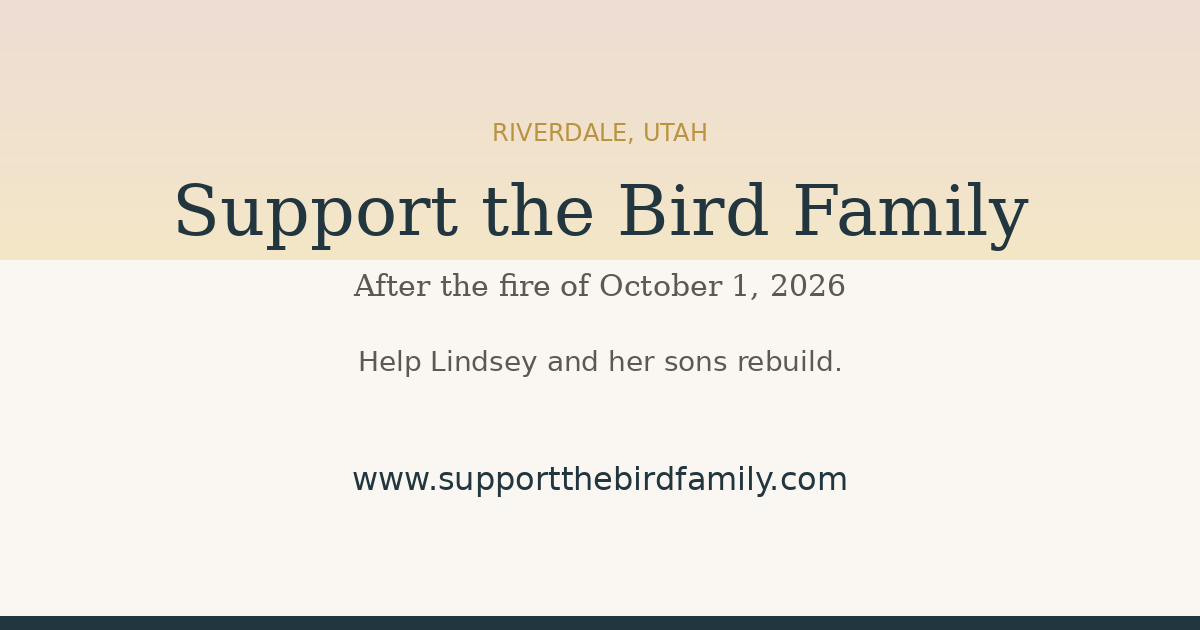
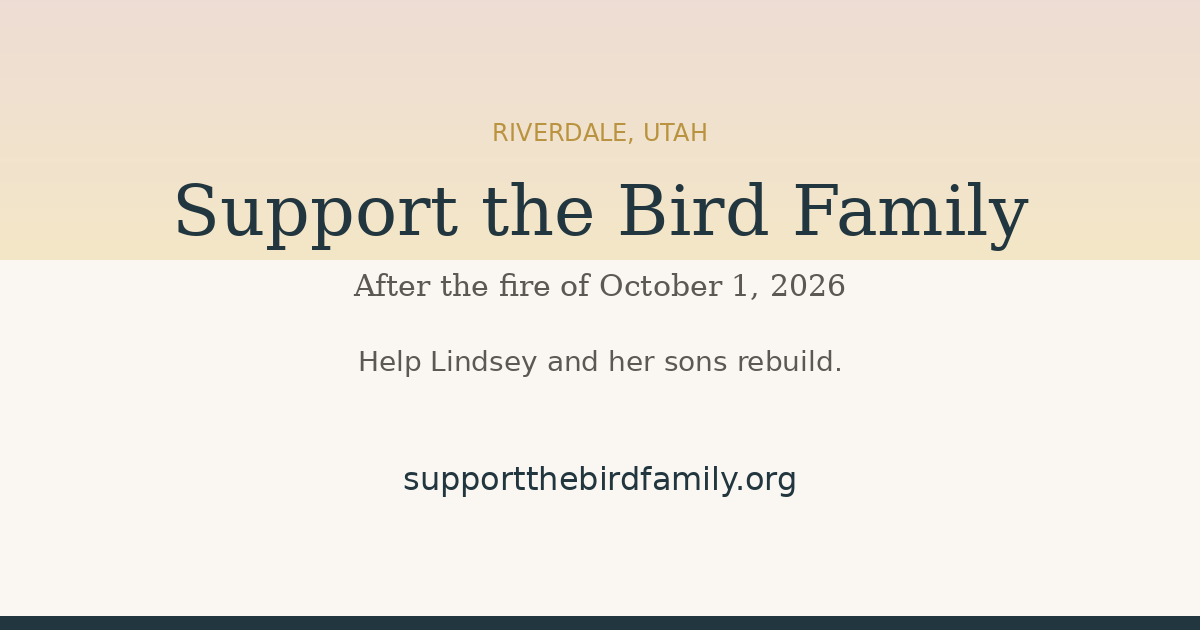
Point the Bird family site and QR codes at supportthebirdfamily.org
Replace www.supportthebirdfamily.com with https://supportthebirdfamily.org/
in the site config, share section, social tags, flyer, README and the
contact email, and regenerate the QR codes and preview image.

Claude-Session: https://claude.ai/code/session_01JmBrSGULe5qxSk5F8rzYqL

Changed region(s): [[0.2775, 0.7238, 0.7092, 0.7841]]

diff --git a/bird-family/index.html b/bird-family/index.html
@@ -11,8 +11,8 @@
   <meta property="og:type" content="website">
   <meta property="og:title" content="Support the Bird Family">
   <meta property="og:description" content="The Bird family of Riverdale lost their home, Nathan, and four of their children in a fire. Help Lindsey and her sons rebuild.">
-  <meta property="og:url" content="https://www.supportthebirdfamily.com/">
-  <meta property="og:image" content="https://www.supportthebirdfamily.com/assets/og-image.png">
+  <meta property="og:url" content="https://supportthebirdfamily.org/">
+  <meta property="og:image" content="https://supportthebirdfamily.org/assets/og-image.png">
   <meta name="twitter:card" content="summary_large_image">
 
   <link rel="icon" href="assets/favicon.svg" type="image/svg+xml">
@@ -188,9 +188,9 @@
           send the link to someone who would want to help.
         </p>
         <div class="share-row">
-          <img class="site-qr" src="assets/site-qr.png" alt="QR code linking to supportthebirdfamily.com" width="200" height="200" loading="lazy">
+          <img class="site-qr" src="assets/site-qr.png" alt="QR code linking to supportthebirdfamily.org" width="200" height="200" loading="lazy">
           <div class="share-actions">
-            <code class="share-url" id="share-url">www.supportthebirdfamily.com</code>
+            <code class="share-url" id="share-url">supportthebirdfamily.org</code>
             <div class="share-buttons">
               <button class="btn btn-secondary" type="button" id="copy-link-btn" data-track="share_copy">Copy link</button>
               <button class="btn btn-secondary" type="button" id="native-share-btn" data-track="share_native" hidden>Share&hellip;</button>
@@ -208,7 +208,7 @@
       <p>Made with love by friends of the Bird family.</p>
       <!-- EDIT: Put a contact email here if you want people to be able to reach you. -->
       <p class="fine-print">
-        Questions or corrections? Email <a href="mailto:hello@supportthebirdfamily.com">hello@supportthebirdfamily.com</a>.
+        Questions or corrections? Email <a href="mailto:hello@supportthebirdfamily.org">hello@supportthebirdfamily.org</a>.
         This site uses basic, anonymous visit statistics to understand how people find it; no personal information is collected.
       </p>
     </div>

diff --git a/bird-family/config.js b/bird-family/config.js
@@ -8,18 +8,18 @@
 window.SITE_CONFIG = {
   // The address people will reach the site at once the domain is live.
   // Used for the "Share" section and the copy-link button.
-  siteUrl: 'https://www.supportthebirdfamily.com/',
+  siteUrl: 'https://supportthebirdfamily.org/',
 
   analytics: {
     // Google Analytics 4.  Create a property at https://analytics.google.com,
-    // add a "Web" data stream for www.supportthebirdfamily.com, then paste the
+    // add a "Web" data stream for supportthebirdfamily.org, then paste the
     // Measurement ID here (it looks like "G-XXXXXXXXXX").  Leave blank to
     // disable.  Nothing is loaded from Google until this is filled in.
     ga4MeasurementId: '',
 
     // Optional: Plausible (privacy-friendly, no cookie banner needed).
     // Set to the domain you registered with Plausible, e.g.
-    // 'supportthebirdfamily.com'.  Leave blank to disable.
+    // 'supportthebirdfamily.org'.  Leave blank to disable.
     plausibleDomain: '',
 
     // Respect the browser's "Do Not Track" / Global Privacy Control settings.

diff --git a/bird-family/qr/print.html b/bird-family/qr/print.html
@@ -61,8 +61,8 @@
     <p class="eyebrow">Riverdale, Utah</p>
     <h1>Support the <em>Bird Family</em></h1>
     <p class="sub">After the fire that took their home, Nathan, and four of their children, Lindsey and her sons are starting over. Scan to learn what happened and how to help.</p>
-    <img class="qr" src="supportthebirdfamily-qr.svg" alt="QR code linking to supportthebirdfamily.com">
-    <p class="url">www.supportthebirdfamily.com</p>
+    <img class="qr" src="supportthebirdfamily-qr.svg" alt="QR code linking to supportthebirdfamily.org">
+    <p class="url">supportthebirdfamily.org</p>
     <p class="hint">Open your phone's camera and point it at the code.</p>
     <p class="ways">
       Or give directly: <strong>GoFundMe</strong> (search "Support for the Bird family after the fire") &middot;

diff --git a/bird-family/tools/make-og-image.py b/bird-family/tools/make-og-image.py
@@ -41,7 +41,7 @@ center("RIVERDALE, UTAH", 118, font(SANS, 24), GOLD)
 center("Support the Bird Family", 170, font(SERIF, 70), SLATE)
 center("After the fire of October 1, 2026", 268, font(SERIF, 30), SOFT)
 center("Help Lindsey and her sons rebuild.", 345, font(SANS, 28), SOFT)
-center("www.supportthebirdfamily.com", 460, font(SANS, 32), SLATE)
+center("supportthebirdfamily.org", 460, font(SANS, 32), SLATE)
 
 out = ROOT / "assets" / "og-image.png"
 img.save(out, optimize=True)

diff --git a/bird-family/tools/make-qr.py b/bird-family/tools/make-qr.py
@@ -25,7 +25,7 @@ ROOT = pathlib.Path(__file__).resolve().parent.parent
 def site_url_from_config():
     text = (ROOT / "config.js").read_text(encoding="utf-8")
     m = re.search(r"siteUrl:\s*['\"]([^'\"]+)['\"]", text)
-    return m.group(1) if m else "https://www.supportthebirdfamily.com/"
+    return m.group(1) if m else "https://supportthebirdfamily.org/"
 
 
 def build(url):

diff --git a/bird-family/README.md b/bird-family/README.md
@@ -34,7 +34,7 @@ Open `index.html` in any text editor and search for `EDIT`. You'll find:
 ## Turning on analytics
 
 1. Go to <https://analytics.google.com>, create a property, and add a
-   **Web** data stream for `www.supportthebirdfamily.com`.
+   **Web** data stream for `supportthebirdfamily.org`.
 2. Copy the Measurement ID (`G-XXXXXXXXXX`) into `config.js`:
 
    ```js
@@ -61,7 +61,7 @@ tracked (`respectDoNotTrack: true`).
 
 ## QR code for the site
 
-Ready-made codes pointing at `https://www.supportthebirdfamily.com/`:
+Ready-made codes pointing at `https://supportthebirdfamily.org/`:
 
 - `qr/supportthebirdfamily-qr.png` — 2000 px, fine for posters.
 - `qr/supportthebirdfamily-qr.svg` — vector, any size.
@@ -87,14 +87,14 @@ the files a web server needs. Unzip it into the host's web root
 the site is relative, so it works at the root of a domain or in a
 subfolder.
 
-Hosting notes for `www.supportthebirdfamily.com`:
+Hosting notes for `supportthebirdfamily.org`:
 
 - **Any shared host (Bluehost, SiteGround, etc.):** upload the zip
   contents via their file manager or FTP.
 - **Netlify / Cloudflare Pages / Vercel:** drag-and-drop the unzipped
   folder; they give you free HTTPS and you point the domain's DNS at them.
 - **GitHub Pages:** put these files in their own repository, enable Pages,
-  and add a `CNAME` file containing `www.supportthebirdfamily.com`.
+  and add a `CNAME` file containing `supportthebirdfamily.org`.
 
 Make sure the final host serves HTTPS; the copy buttons and the native
 "Share…" button only work on secure pages.
